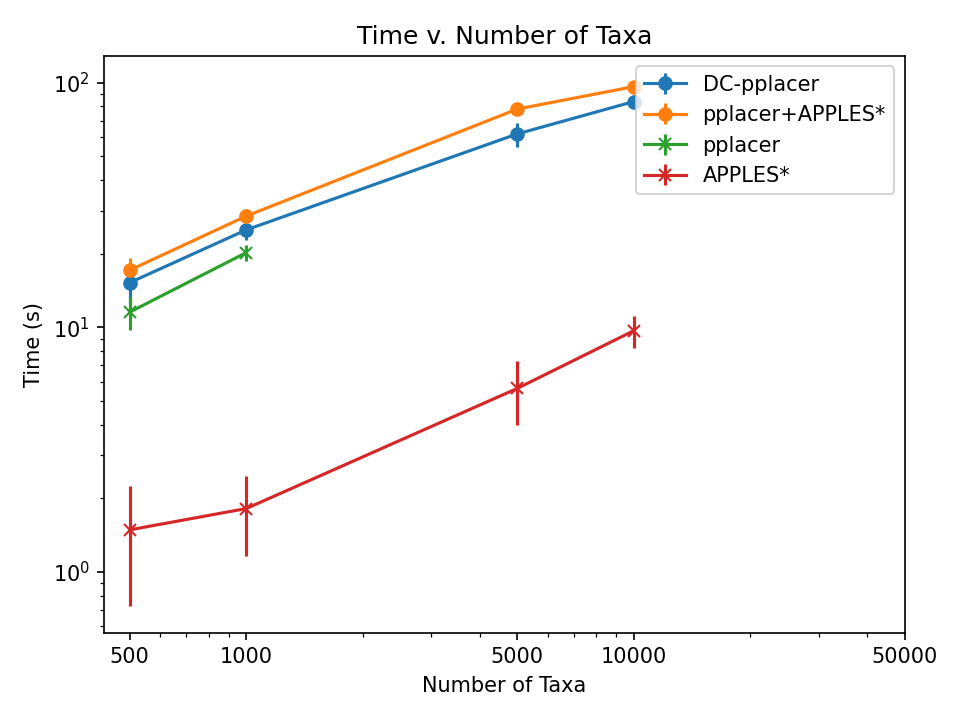
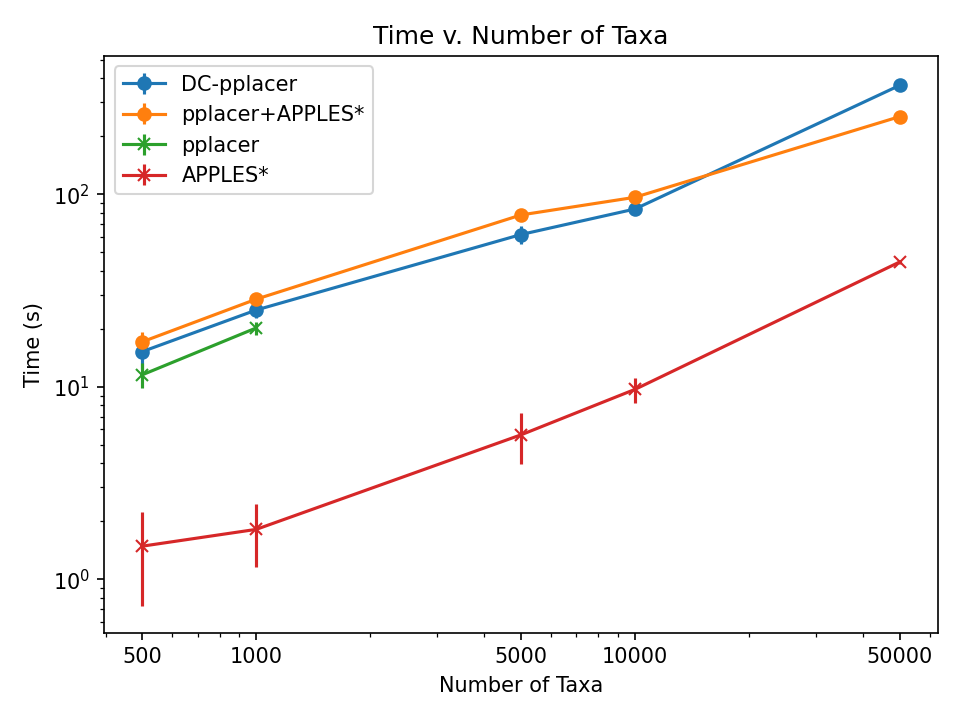
added figs for 50K

diff --git a/writeup/project.tex b/writeup/project.tex
@@ -217,17 +217,16 @@ for increased parallelism in running pplacerDC.
 \label{fig:varying-size}
 \end{wrapfigure}
 
-Runtime results on 16 threads on Blue Waters are shown below in figure \ref{fig:timing-results}.
+Runtime results on 16 threads on Blue Waters are shown figure \ref{fig:timing-results}.
 A maximum of 2,500 taxa are considered for the pplacerDC decomposition and the clade
 sampling for pplacerAPPLES*.
 For the latter method, only a single clade is sampled.
-Comparing the slope of this line against pplacer, APPLES*, pplacerAPPLES*, and pplacerDC
-indicates that all of the methods considered have linear time complexity with respect
+The graph indicates that all of the methods considered have linear time complexity with respect
 to the number of taxa in the input tree.
 
 \begin{wrapfigure}{r}{0.5\textwidth}
 \centering
-\includegraphics[width=0.5\textwidth]{Figs/VS-timing-results-BW.png}
+\includegraphics[width=0.5\textwidth, height=0.5\textheight, keepaspectratio]{Figs/VS-timing-results-BW.png}
 \caption{Runtime on Blue Waters for 16 threads. Time is average time to place a single query sequence.}
 \label{fig:timing-results}
 \end{wrapfigure}
@@ -237,16 +236,16 @@ are shown below in figures
 \ref{fig:error500},
 \ref{fig:error1000},
 \ref{fig:error5000},
+\ref{fig:error10000},
 and
-\ref{fig:error10000}.
-%\ref{fig:error50000},
+\ref{fig:error50000},
 For both methods, a maximum subproblem size of 2,500 is used.
 For pplacerAPPLES*, only a single clade is sampled.
 The identical error rates for pplacer, pplacerDC, and pplacerAPPLES* in figures \ref{fig:error500} and \ref{fig:error1000}
 show that when the maximum subproblem size exceeds the size of the pplacer input tree, then the resulting placement from both pplacerDC and pplacerAPPLES* is the placement from passing the entire input tree on to pplacer.
 In the 5,000, 10,000, and 50,000 taxa cases,  however, this is no longer the case.
 Pplacer frequently fails, according to \cite{balaban_apples_2020}, and so our two methods were compared only to APPLES*. Further, pplacerDC and pplacerAPPLES* differ from each other as well.
-We see in figures \ref{fig:error5000} and \ref{fig:error10000}.%, and \ref{fig:error50000}
+We see in figures \ref{fig:error5000}, \ref{fig:error10000} and \ref{fig:error50000}
 that pplacerDC remains robust and highly accurate, despite the input tree size.
 At the same time, pplacerAPPLES*, while generally able to improve upon the
 placement provided by APPLES*, is not as accurate as pplacerDC.
@@ -288,12 +287,18 @@ The authors consider these concerns in the future work section.
 \includegraphics[width=\textwidth]{Figs/VS-delta-error-5000-BW.png}
 \caption{Delta Error for RNASim-VS with 5000 sequences}
 \label{fig:error5000}
-\end{subfigure}
+\end{subfigure}\\
 \begin{subfigure}{0.5\textwidth}
 \centering
 \includegraphics[width=\textwidth]{Figs/VS-delta-error-10000-BW.png}
 \caption{Delta Error for RNASim-VS with 10,000 sequences}
 \label{fig:error10000}
+\end{subfigure}\\
+\begin{subfigure}{0.5\textwidth}
+\centering
+\includegraphics[width=\textwidth]{Figs/VS-delta-error-50000.png}
+\caption{Delta Error for RNASim-VS with 50,000 sequences\footnote{Error results are from a different system, but this should have no impact on the accuracy, as all parameters were identical, and the timing results are all from Blue Waters.}}
+\label{fig:error50000}
 \end{subfigure}
 \end{figure}
 
